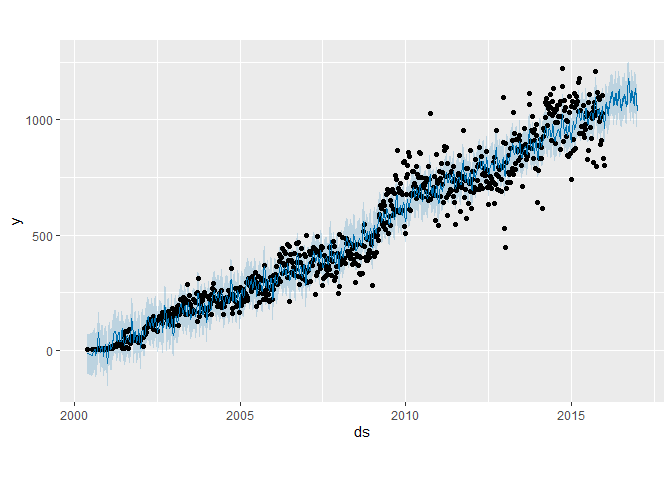
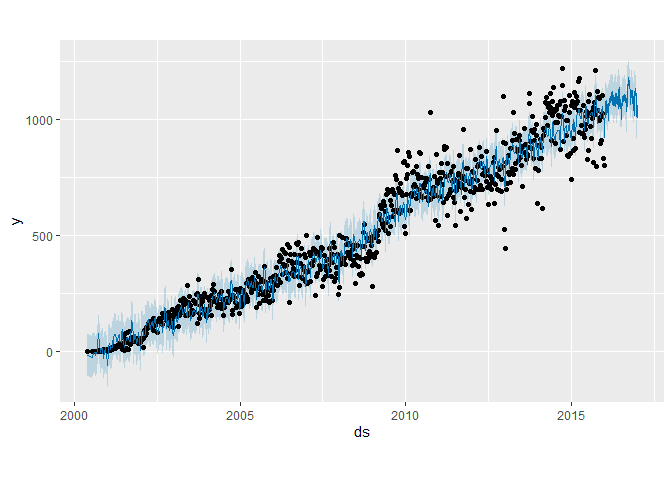
Update to gender graph
adding the holiday feature to the dataset last change

Changed region(s): [[0.125, 0.1875, 0.9688, 0.75], [0.0625, 0.7188, 0.0938, 0.75]]

diff --git a/Assignments/Assignment 5/Assignment-5.md b/Assignments/Assignment 5/Assignment-5.md
@@ -275,12 +275,12 @@ tail(forecast[c('ds', 'yhat', 'yhat_lower', 'yhat_upper')])
 ```
 
     ##              ds     yhat yhat_lower yhat_upper
-    ## 1225 2017-12-21 4170.108   3829.880   4466.407
-    ## 1226 2017-12-22 4216.971   3907.249   4531.800
-    ## 1227 2017-12-23 4193.634   3914.161   4514.494
-    ## 1228 2017-12-24 4173.281   3843.067   4474.159
-    ## 1229 2017-12-25 4099.485   3775.605   4417.943
-    ## 1230 2017-12-26 4067.710   3751.853   4388.573
+    ## 1225 2017-12-21 4170.108   3854.940   4472.199
+    ## 1226 2017-12-22 4216.971   3895.583   4535.210
+    ## 1227 2017-12-23 4193.634   3874.054   4518.062
+    ## 1228 2017-12-24 4173.281   3859.361   4499.659
+    ## 1229 2017-12-25 4099.485   3775.984   4400.115
+    ## 1230 2017-12-26 4067.710   3749.340   4391.562
 
 It looks like we are predicting between 3,600 and 4,300 applications per
 week in end of 2017. This is not accounting for hollidays, which we will
@@ -686,7 +686,7 @@ M_Data_Test <- M_Data_Test %>%
 ```
 
 ``` r
-m_F<-prophet(F_Data_Train)
+m_F<-prophet(F_Data_Train,holidays=holidays)
 ```
 
     ## Disabling daily seasonality. Run prophet with daily.seasonality=TRUE to override this.
@@ -702,7 +702,7 @@ plot(m_F,forecast_F)
 ![](Assignment-5_files/figure-gfm/Femal%20prediction-1.png)<!-- -->
 
 ``` r
-m_M<-prophet(M_Data_Train)
+m_M<-prophet(M_Data_Train ,holidays=holidays)
 ```
 
     ## Disabling daily seasonality. Run prophet with daily.seasonality=TRUE to override this.
@@ -745,25 +745,25 @@ MAPE <- mean(abs(actuals - predictions) / actuals)
 print(MAE)
 ```
 
-    ## [1] 163.5717
+    ## [1] 164.1063
 
 ``` r
 print(MSE)
 ```
 
-    ## [1] 49651.33
+    ## [1] 48468.04
 
 ``` r
 print(RMSE)
 ```
 
-    ## [1] 222.8258
+    ## [1] 220.1546
 
 ``` r
 print(MAPE)
 ```
 
-    ## [1] 0.07885049
+    ## [1] 0.07886121
 
 ``` r
 actuals <- F_Data_Test$y
@@ -777,22 +777,22 @@ MAPE <- mean(abs(actuals - predictions) / actuals)
 print(MAE)
 ```
 
-    ## [1] 86.56987
+    ## [1] 88.31198
 
 ``` r
 print(MSE)
 ```
 
-    ## [1] 13151.12
+    ## [1] 13213.5
 
 ``` r
 print(RMSE)
 ```
 
-    ## [1] 114.6783
+    ## [1] 114.95
 
 ``` r
 print(MAPE)
 ```
 
-    ## [1] 0.09061592
+    ## [1] 0.09214144
